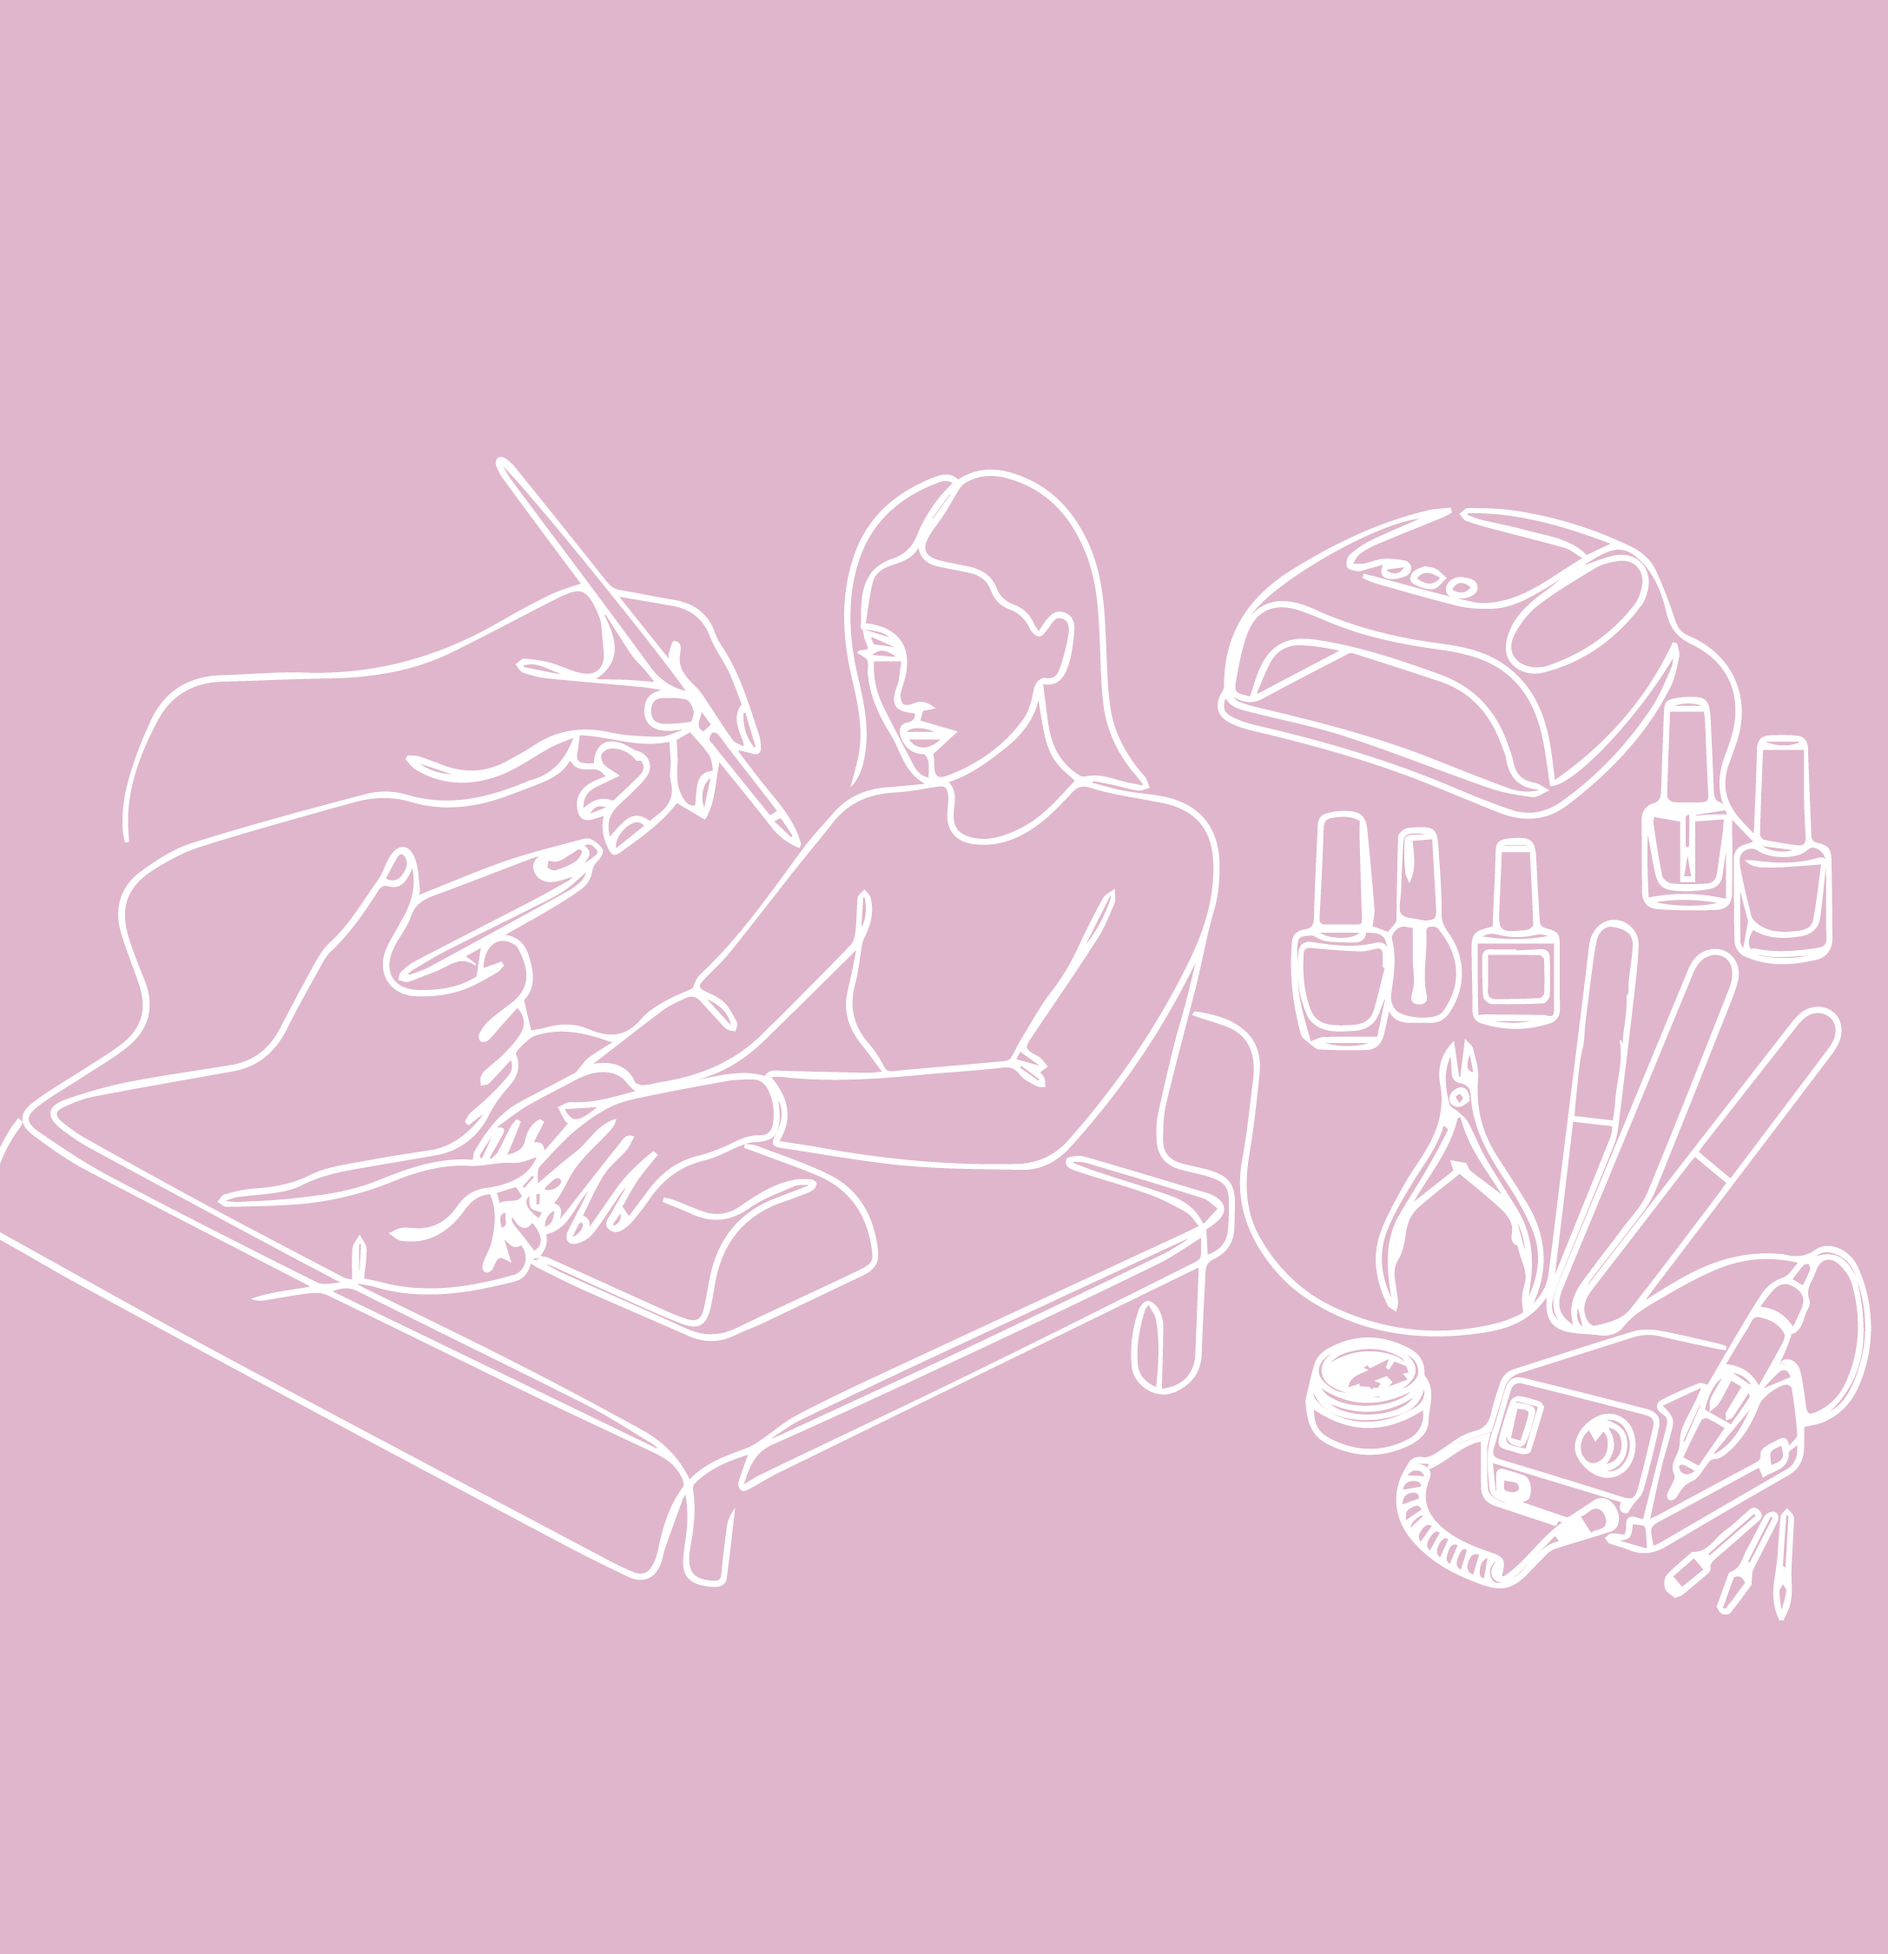
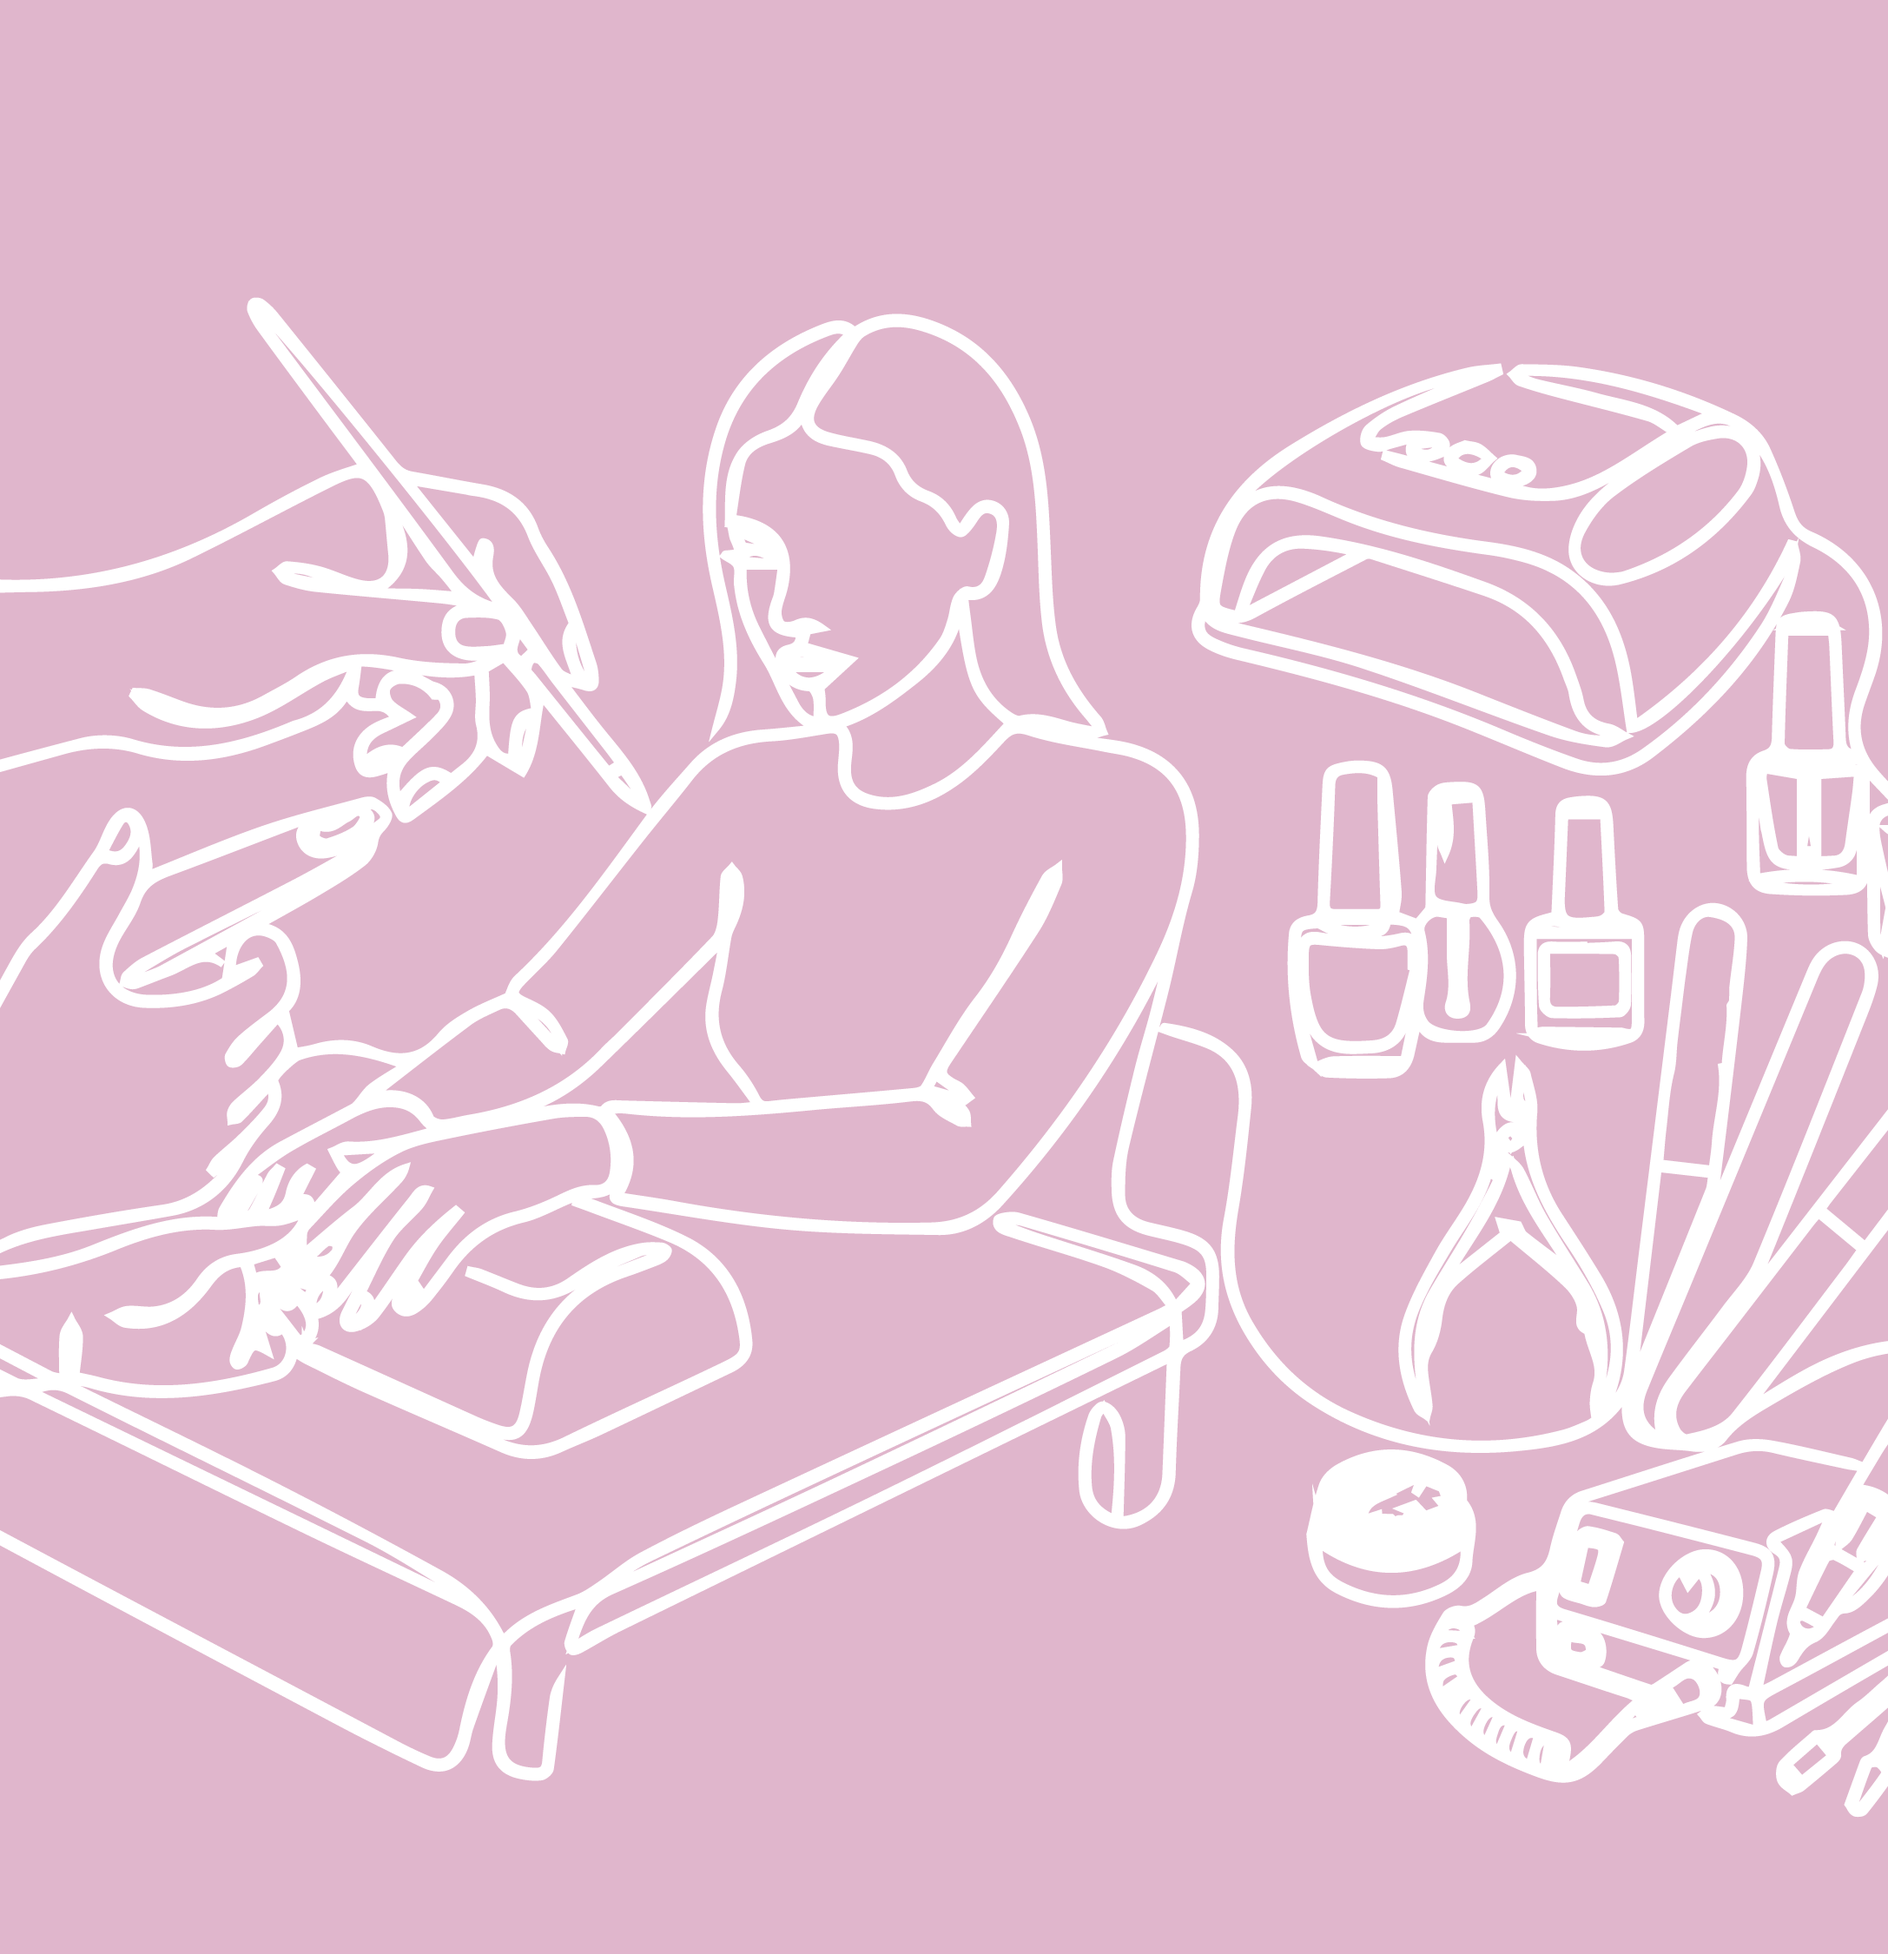
Добавила логику акций

diff --git a/src/main/java/salon/db/database.java b/src/main/java/salon/db/database.java
@@ -346,6 +346,41 @@ public class database {
         return false;
     }
 
+    public static int getCurrentClientSuccessfulAppointmentsCount() {
+        if (curLog == null) {
+            return 0;
+        }
+
+        String query = "SELECT COUNT(*) FROM appointments WHERE client_login = ? " +
+                "AND (LOWER(COALESCE(status, '')) = ? " +
+                "OR (LOWER(COALESCE(status, '')) <> ? AND date(appointment_date) < date('now', 'localtime')))";
+
+        try (Connection conn = DriverManager.getConnection(database.url);
+             PreparedStatement pstmt = conn.prepareStatement(query)) {
+
+            pstmt.setString(1, curLog);
+            pstmt.setString(2, "исполнено");
+            pstmt.setString(3, "отменено");
+
+            ResultSet rs = pstmt.executeQuery();
+            if (rs.next()) {
+                return rs.getInt(1);
+            }
+        } catch (SQLException e) {
+            e.printStackTrace();
+        }
+
+        return 0;
+    }
+
+    public static boolean hasCurrentClientDiscount() {
+        return getCurrentClientSuccessfulAppointmentsCount() >= 5;
+    }
+
+    public static double getPriceWithCurrentClientDiscount(double price) {
+        return hasCurrentClientDiscount() ? price * 0.9 : price;
+    }
+
     public static ObservableList<Service> getServicesCatalog() {
         ObservableList<Service> services = FXCollections.observableArrayList(); // список для JavaFX
         String query = "SELECT id, name, category, duration, price FROM services ORDER BY category, name"; // берем список услуг
@@ -436,7 +471,7 @@ public class database {
             pstmt.setInt(2, service.getId());
             pstmt.setString(3, service.getName());
             pstmt.setString(4, appointmentDate);
-            pstmt.setDouble(5, service.getPrice());
+            pstmt.setDouble(5, getPriceWithCurrentClientDiscount(service.getPrice()));
             pstmt.setString(6, specialist);
             pstmt.setString(7, "назначена"); // по умолчанию статус новый
 

diff --git a/src/main/java/salon/controller/client/NewClientAppointmentController.java b/src/main/java/salon/controller/client/NewClientAppointmentController.java
@@ -52,7 +52,7 @@ public class NewClientAppointmentController extends BaseController {
             specialistComboBox.getItems().clear();
 
             if (newVal != null) {
-                priceField.setText(newVal.getPrice() + " руб.");
+                priceField.setText(formatPrice(newVal));
                 specialistComboBox.setItems(database.getSpecialistsByServiceId(newVal.getServiceId()));
                 specialistComboBox.setDisable(specialistComboBox.getItems().isEmpty());
             } else {
@@ -100,5 +100,15 @@ public class NewClientAppointmentController extends BaseController {
     @FXML
     private void back(ActionEvent event) throws IOException {
         changeWindow(event, "/fxml/client/client_menu.fxml", "Личный кабинет");
+    }
+
+    private String formatPrice(Service service) {
+        double finalPrice = database.getPriceWithCurrentClientDiscount(service.getPrice());
+
+        if (database.hasCurrentClientDiscount()) {
+            return String.format("%.0f руб. (скидка 10%%)", finalPrice);
+        }
+
+        return String.format("%.0f руб.", finalPrice);
     }
 }

diff --git a/src/main/java/salon/controller/client/EditClientController.java b/src/main/java/salon/controller/client/EditClientController.java
@@ -78,6 +78,18 @@ public class EditClientController extends BaseController {
         closeWindow();
     }
 
+    @FXML
+    private void showDiscount() {
+        int successfulAppointments = database.getCurrentClientSuccessfulAppointmentsCount();
+
+        if (database.hasCurrentClientDiscount()) {
+            showInfo("У вас " + successfulAppointments + " успешных записей. Доступна скидка 10% на новые записи.");
+        } else {
+            int remainingAppointments = 5 - successfulAppointments;
+            showInfo("У вас " + successfulAppointments + " успешных записей. До скидки 10% осталось: " + remainingAppointments + ".");
+        }
+    }
+
     private boolean isBlank(String value) {
         return value == null || value.trim().isEmpty();
     }
